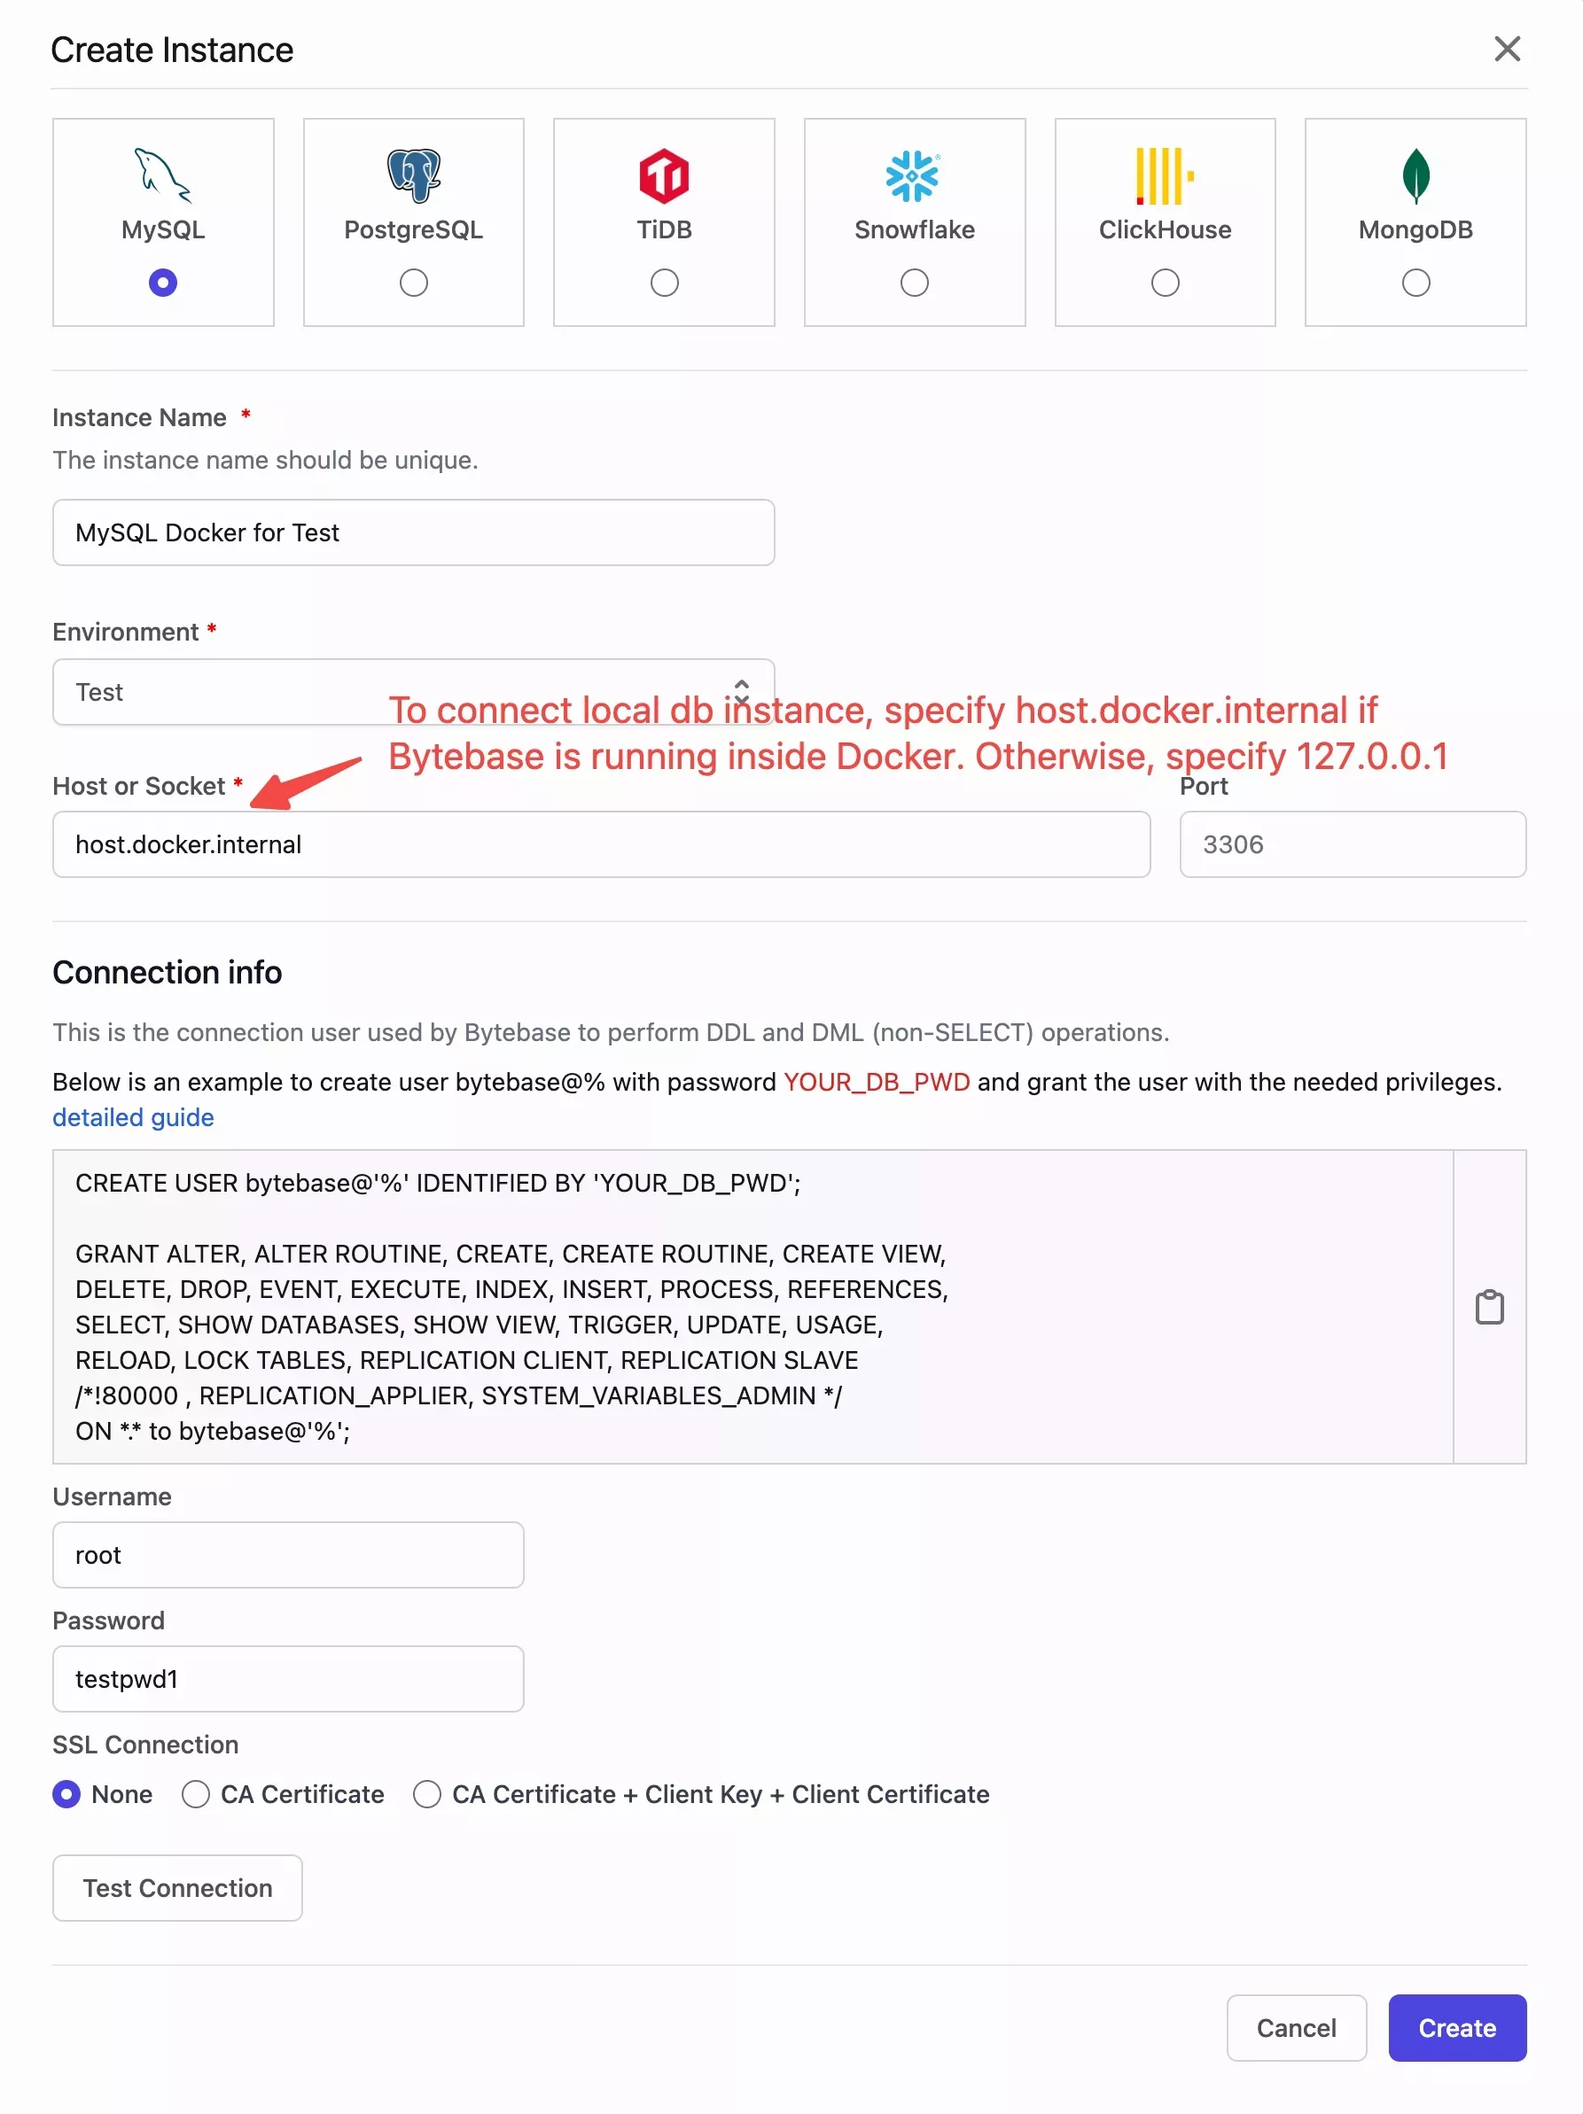
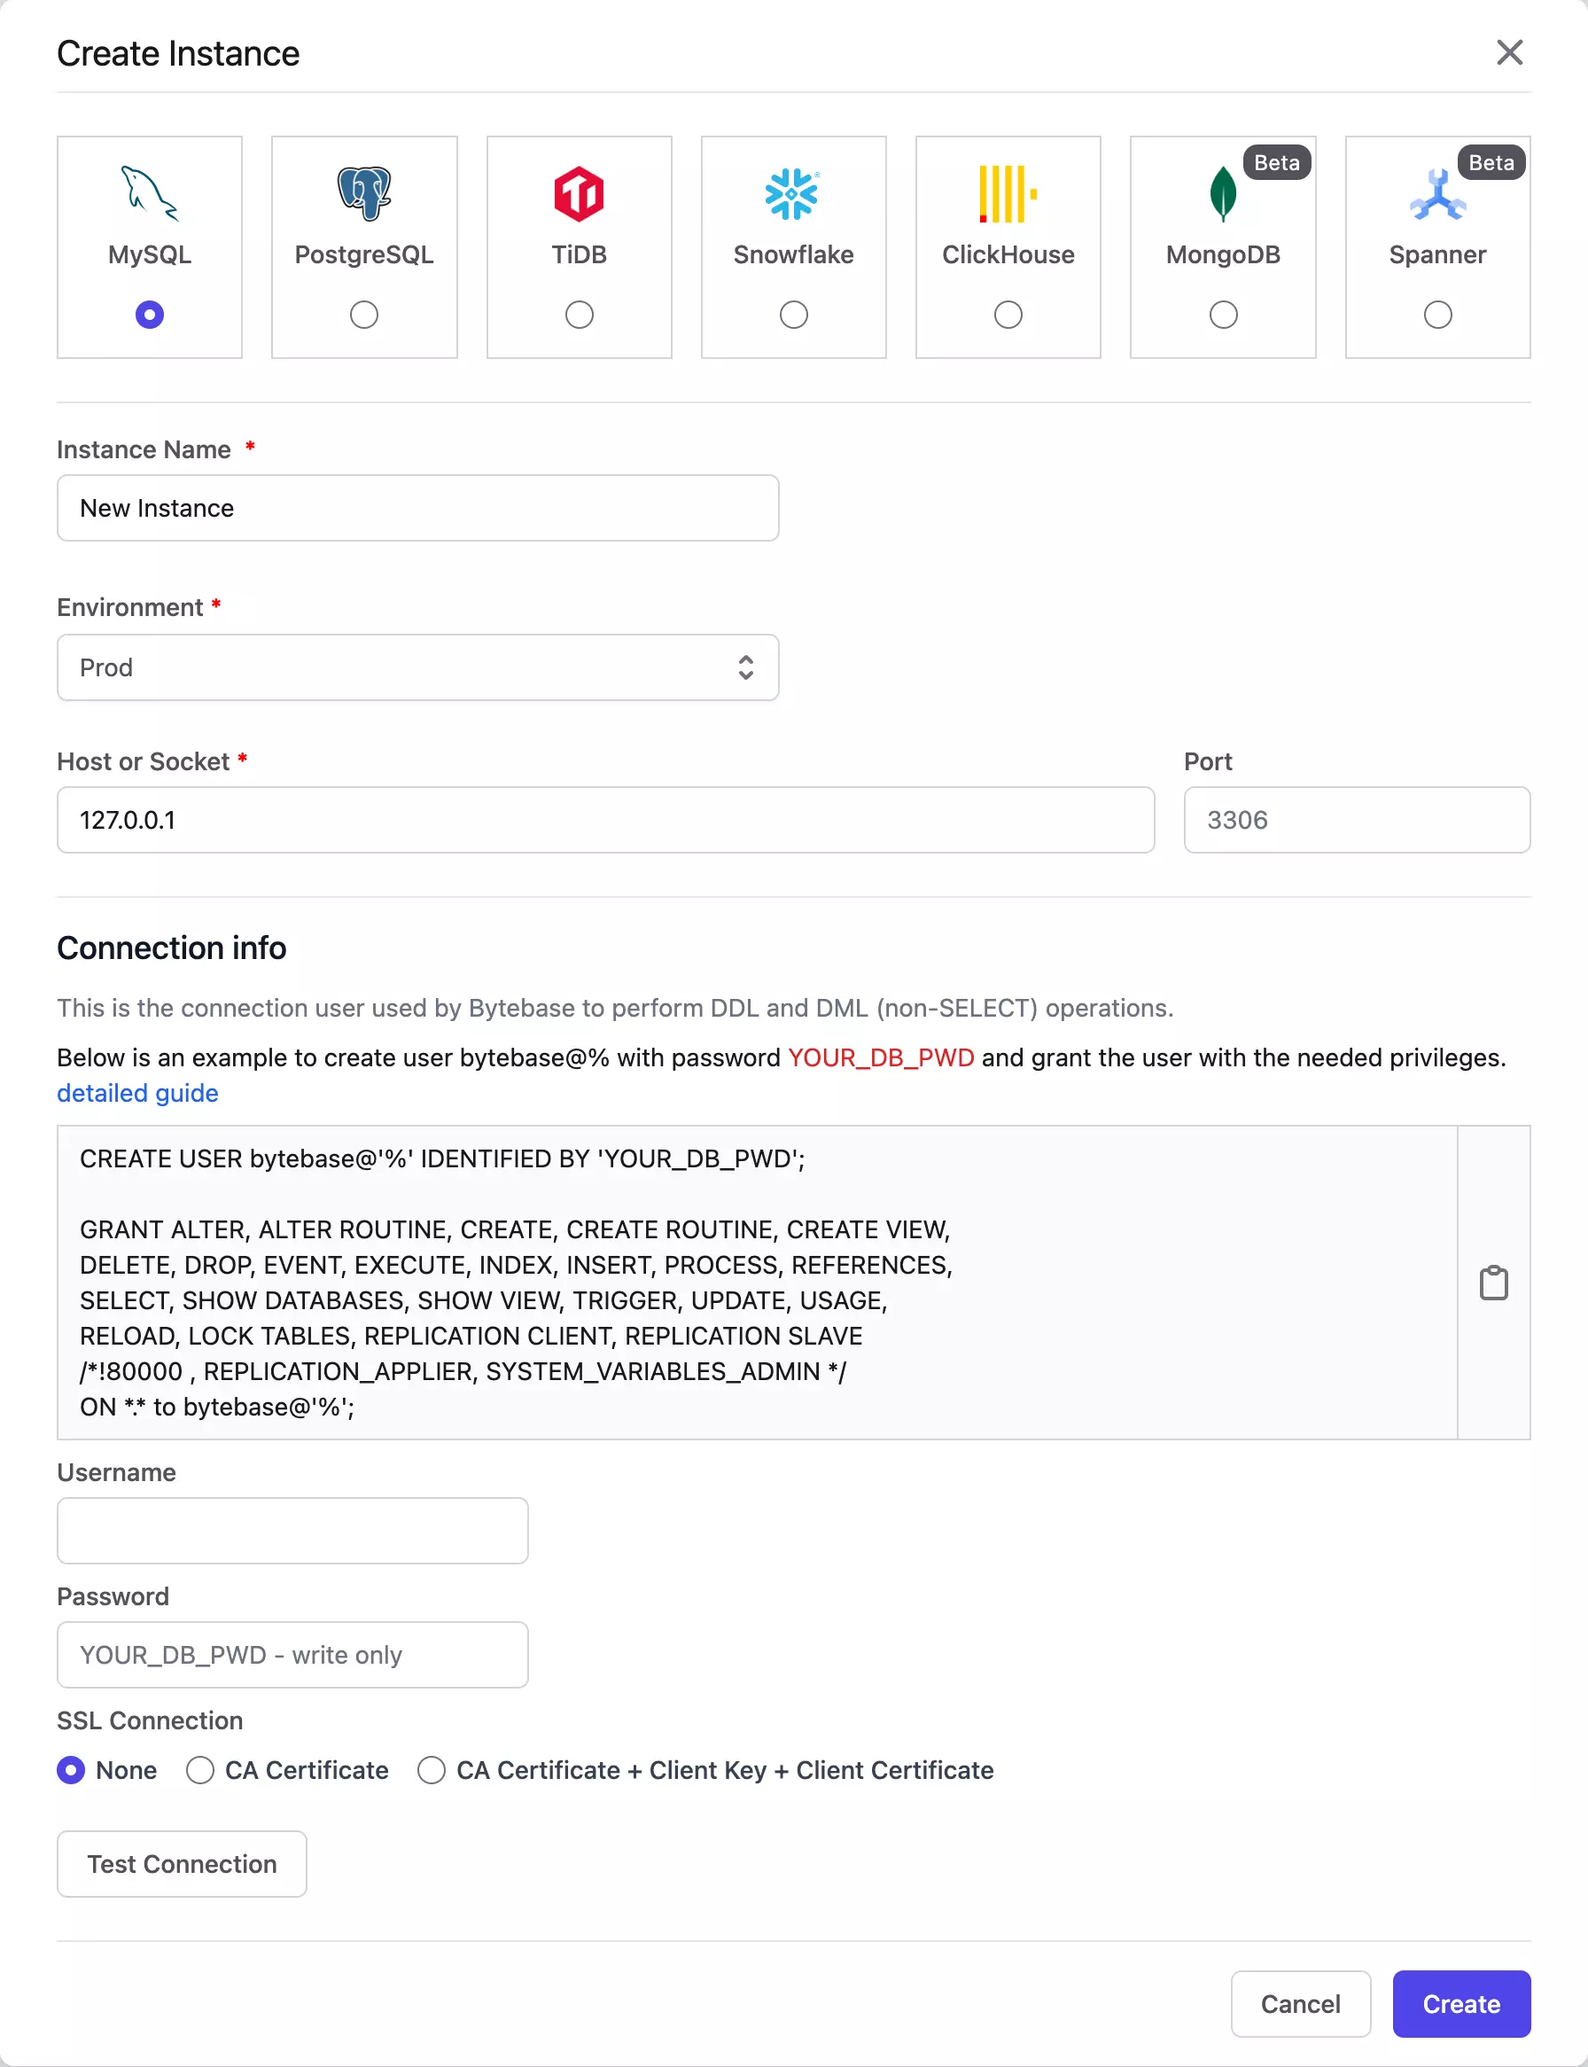
docs: add spanner & spanner how-tos (#741)

diff --git a/content/docs/introduction/supported-databases.md b/content/docs/introduction/supported-databases.md
@@ -11,6 +11,7 @@ Bytebase officially supports the following major versions for each supported dat
 - ClickHouse - 21.0
 - Snowflake
 - MongoDB - 4.0, 5.0, 6.0
+- Spanner (Beta, use at your own risk)
 
 Bytebase usually works fine with older database versions, we just won't support features specific to those older versions. We may add other open source databases in the future.
 
@@ -18,12 +19,12 @@ Bytebase usually works fine with older database versions, we just won't support 
 
 ### Change Management
 
-|                                                                         Feature | MySQL | PostgreSQL | TiDB | ClickHouse | Snowflake | MongoDB |
-| ------------------------------------------------------------------------------: | :---: | :--------: | :--: | :--------: | :-------: | :-----: |
-|            [UI Change Workflow](/docs/change-database/change-workflow/overview) |  ✔   |     ✔     |  ✔  |     ✔     |    ✔     |   ✔    |
-|                        [GitOps Change Workflow](/docs/vcs-integration/overview) |  ✔   |     ✔     |  ✔  |     ✔     |    ✔     |   ✔    |
-|         [Tenant Database Management](/docs/tenant-database-management/overview) |  ✔   |     ✔     |  ✔  |     ✔     |    ✔     |   ✔    |
-|                    [Migration History](/docs/change-database/migration-history) |  ✔   |     ✔     |  ✔  |     ✔     |    ✔     |   ✔    |
+|                                                                         Feature | MySQL | PostgreSQL | TiDB | ClickHouse | Snowflake | MongoDB | Spanner |
+| ------------------------------------------------------------------------------: | :---: | :--------: | :--: | :--------: | :-------: | :-----: | :-: |
+|            [UI Change Workflow](/docs/change-database/change-workflow/overview) |  ✔   |     ✔     |  ✔  |     ✔     |    ✔     |   ✔    | ✔ |
+|                        [GitOps Change Workflow](/docs/vcs-integration/overview) |  ✔   |     ✔     |  ✔  |     ✔     |    ✔     |   ✔    | ✔ |
+|         [Tenant Database Management](/docs/tenant-database-management/overview) |  ✔   |     ✔     |  ✔  |     ✔     |    ✔     |   ✔    | ✔ |
+|                    [Migration History](/docs/change-database/migration-history) |  ✔   |     ✔     |  ✔  |     ✔     |    ✔     |   ✔    | ✔ |
 |                      [SQL Review Rules](/docs/sql-review/review-rules/overview) |  ✔   |     ✔     |  ✔  |            |           |
 |              [Schema Synchronization](/docs/change-database/synchronize-schema) |  ✔   |     ✔     |      |            |           |
 |                            [Schema Editor](/docs/change-database/schema-editor) |  ✔   |            |      |            |           |
@@ -31,34 +32,34 @@ Bytebase usually works fine with older database versions, we just won't support 
 
 ### SQL Editor
 
-|                                                 Feature | MySQL | PostgreSQL | TiDB | ClickHouse | Snowflake | MongoDB |
-| ------------------------------------------------------: | :---: | :--------: | :--: | :--------: | :-------: | :-----: |
-|          [Read-only Mode](/docs/sql-editor/run-queries) |  ✔   |     ✔     |  ✔  |     ✔     |    ✔     |         |
-|               [Admin Mode](/docs/sql-editor/admin-mode) |  ✔   |     ✔     |  ✔  |     ✔     |    ✔     |   ✔    |
-| [Sheet Management](/docs/sql-editor/manage-sql-scripts) |  ✔   |     ✔     |  ✔  |     ✔     |    ✔     |   ✔    |
+|                                                 Feature | MySQL | PostgreSQL | TiDB | ClickHouse | Snowflake | MongoDB | Spanner |
+| ------------------------------------------------------: | :---: | :--------: | :--: | :--------: | :-------: | :-----: | :-: |
+|          [Read-only Mode](/docs/sql-editor/run-queries) |  ✔   |     ✔     |  ✔  |     ✔     |    ✔     |         | ✔ |
+|               [Admin Mode](/docs/sql-editor/admin-mode) |  ✔   |     ✔     |  ✔  |     ✔     |    ✔     |   ✔    | ✔ |
+| [Sheet Management](/docs/sql-editor/manage-sql-scripts) |  ✔   |     ✔     |  ✔  |     ✔     |    ✔     |   ✔    | ✔ |
 
 ### Security
 
-|                                                                 Feature | MySQL | PostgreSQL | TiDB | ClickHouse | Snowflake | MongoDB |
-| ----------------------------------------------------------------------: | :---: | :--------: | :--: | :--------: | :-------: | :-----: |
-|                            [RBAC](/docs/concepts/roles-and-permissions) |  ✔   |     ✔     |  ✔  |     ✔     |    ✔     |   ✔    |
-| [Database Access Control](/docs/administration/database-access-control) |  ✔   |     ✔     |  ✔  |     ✔     |    ✔     |         |
-|                             [Audit Log](/docs/administration/audit-log) |  ✔   |     ✔     |  ✔  |     ✔     |    ✔     |   ✔    |
+|                                                                 Feature | MySQL | PostgreSQL | TiDB | ClickHouse | Snowflake | MongoDB | Spanner |
+| ----------------------------------------------------------------------: | :---: | :--------: | :--: | :--------: | :-------: | :-----: | :-: |
+|                            [RBAC](/docs/concepts/roles-and-permissions) |  ✔   |     ✔     |  ✔  |     ✔     |    ✔     |   ✔    | ✔ |
+| [Database Access Control](/docs/administration/database-access-control) |  ✔   |     ✔     |  ✔  |     ✔     |    ✔     |   ✔    | ✔ |
+|                             [Audit Log](/docs/administration/audit-log) |  ✔   |     ✔     |  ✔  |     ✔     |    ✔     |   ✔    | ✔ |
 |               [Data Anonymization](/docs/administration/anonymize-data) |  ✔   |            |      |            |           |         |
 
 ### Disaster Recovery
 
-|                                                                                   Feature | MySQL | PostgreSQL | TiDB | ClickHouse | Snowflake | MongoDB |
-| ----------------------------------------------------------------------------------------: | :---: | :--------: | :--: | :--------: | :-------: | :-----: |
+|                                                                                   Feature | MySQL | PostgreSQL | TiDB | ClickHouse | Snowflake | MongoDB | Spanner |
+| ----------------------------------------------------------------------------------------: | :---: | :--------: | :--: | :--------: | :-------: | :-----: | :-: |
 |      [Local Backup and Restore](/docs/disaster-recovery/backup-restore-database/overview) |  ✔   |     ✔     |  ✔  |     ✔     |    ✔     |         |
 |              [Cloud Backup](/docs/disaster-recovery/backup-restore-database/cloud-backup) |  ✔   |     ✔     |  ✔  |     ✔     |    ✔     |         |
 | [Point-in-time Recovery (PITR)](/docs/disaster-recovery/point-in-time-recovery-for-mysql) |  ✔   |            |      |            |           |         |
 
 ### Anomaly Detection
 
-|                                                                                   Feature | MySQL | PostgreSQL | TiDB | ClickHouse | Snowflake | MongoDB |
-| ----------------------------------------------------------------------------------------: | :---: | :--------: | :--: | :--------: | :-------: | :-----: |
-|                                                               Database Connection Failure |  ✔   |     ✔     |  ✔  |     ✔     |    ✔     |   ✔    |
-|                                [Drift Detection](/docs/anomaly-detection/drift-detection) |  ✔   |     ✔     |  ✔  |     ✔     |    ✔     |         |
+|                                                                                   Feature | MySQL | PostgreSQL | TiDB | ClickHouse | Snowflake | MongoDB | Spanner |
+| ----------------------------------------------------------------------------------------: | :---: | :--------: | :--: | :--------: | :-------: | :-----: | :-: |
+|                                                               Database Connection Failure |  ✔   |     ✔     |  ✔  |     ✔     |    ✔     |   ✔    | ✔ |
+|                                [Drift Detection](/docs/anomaly-detection/drift-detection) |  ✔   |     ✔     |  ✔  |     ✔     |    ✔     |         | ✔ |
 | [Backup Policy Violation](/docs/administration/environment-policy/backup-schedule-policy) |  ✔   |     ✔     |  ✔  |     ✔     |    ✔     |         |
 |                  [Backup Missing](/docs/disaster-recovery/backup-restore-database/backup) |  ✔   |     ✔     |  ✔  |     ✔     |    ✔     |         |

diff --git a/content/docs/get-started/configure-workspace/add-an-instance.md b/content/docs/get-started/configure-workspace/add-an-instance.md
@@ -4,7 +4,7 @@ title: Add an Instance
 
 **Database Instance** or simply **Instance** models after a single database instance which is usually accessed via a host:port address. A typical database instance could be your on-premises MySQL instance, an AWS RDS instance etc. Each **Database Instance** belongs to an **Environment**.
 
-Currently Bytebase supports **MySQL**, **PostgreSQL**, **TiDB**, **Snowflake** and **ClickHouse** instances.
+Currently Bytebase supports **MySQL**, **PostgreSQL**, **TiDB**, **Snowflake**, **ClickHouse**, **MongoDB** and **Spanner** instances.
 
 This document describes how to add an instance in order to synchronize databases.
 
@@ -17,6 +17,7 @@ This document describes how to add an instance in order to synchronize databases
 
 1. Click **Instances** on the top bar.
 1. Click **Add Instance**.
+1. Select an **Instance Type** on the top.
 1. Enter **Instance name**, select **Environment**, enter **Host or Socket** and **Port**.
 1. Enter connection info: **Username** and **Password**, and click **Test Connection**.
 1. (Optional) Enter SSL connection info:
@@ -24,13 +25,14 @@ This document describes how to add an instance in order to synchronize databases
    1. Choose **CA Certificate** to use SSL connection with CA certificate only.
    1. Choose **CA Certificate + Client Key + Client Certificate** to use a full SSL connection.
 
-![create-an-instance](/docs/get-started/configure-workspace/add-an-instance/add-an-instance.webp)
+![create-an-instance](/static/docs/get-started/configure-workspace/add-an-instance/add-an-instance.webp)
 
 <hint-block type="info">
 
-1. Environment can not be changed once the Instance has been created.
+1. Environment cannot be changed once the instance has been created.
 1. The screenshot assumes you run Bytebase inside Docker and try to connect to a database instance on the same host. Thus it uses `host.docker.internal`. If Bytebase is not running inside Docker, you should supply the normal `127.0.0.1` to connect the instance on the same host [(detailed explanation)](https://stackoverflow.com/a/24326540/235983).
 1. The SSL connection configuration only supports PostgreSQL, MySQL, TiDB and ClickHouse for now. You can also configure the SSL connection on the instance details page.
+1. On how to connect to Spanner databases, see [How to Find Project ID and Instance ID](/docs/how-to/spanner/how-to-find-project-id-and-instance-id) and [How to Create a Service Account for Bytebase](/docs/how-to/spanner/how-to-create-a-service-account-for-bytebase)
 
 </hint-block>
 

diff --git a/content/docs/how-to/spanner/how-to-create-a-service-account-for-bytebase.md b/content/docs/how-to/spanner/how-to-create-a-service-account-for-bytebase.md
@@ -1,0 +1,17 @@
+---
+title: How to Create a Service Account for Bytebase
+description: Step-by-Step guide about how to create a Google Cloud service account used by Bytebase for Spanner
+---
+
+1. Go to [Google Cloud console](https://console.cloud.google.com/).
+1. Click **APIs & Services** and then **Credentials**. You might have to click **Menu** on the top left first.
+1. Click **Create Credentials** and then **Service account**.
+1. For **Service account name**, enter a name for the service account.
+1. Click **Create and Continue**.
+1. For **Select a role**, select **Cloud Spanner Database Admin** for the service account.
+1. Click **Done**.
+1. Click the created service account.
+1. At the top, click **Keys** and then **Add Key** and then **Create new key**. Make sure the key type is set to **JSON** and click **Create**.
+1. You'll get a message that the service account's private key JSON file was downloaded to your computer. Make a note of the file name and where your browser saves it. You'll need it later.
+
+When [adding an instance](/docs/get-started/configure-workspace/add-an-instance/#add-an-instance) in Bytebase, the `Credentials` input should be the content of the JSON file.

diff --git a/content/docs/how-to/_layout.md b/content/docs/how-to/_layout.md
@@ -1,6 +1,6 @@
 ---
 # expand_section_list is the list of default expanded sections.
-expand_section_list: ["Workflow", "Integrations", "ClickHouse"]
+expand_section_list: ["Workflow", "Integrations", "ClickHouse", "Spanner"]
 ---
 
 ## SQL Review Guide
@@ -32,3 +32,9 @@ expand_section_list: ["Workflow", "Integrations", "ClickHouse"]
 ### [How to List Tables from a Database](/how-to/clickhouse/how-to-list-tables-from-a-database-clickhouse)
 
 ### [How to Rename a Table](/how-to/clickhouse/how-to-rename-a-table-clickhouse)
+
+## Spanner
+
+### [How to Find Project ID and Instance ID](/how-to/spanner/how-to-find-project-id-and-instance-id)
+
+### [How to Create a Service Account for Bytebase](/how-to/spanner/how-to-create-a-service-account-for-bytebase)

diff --git a/content/docs/how-to/spanner/how-to-find-project-id-and-instance-id.md b/content/docs/how-to/spanner/how-to-find-project-id-and-instance-id.md
@@ -1,0 +1,12 @@
+---
+title: How to Find Project ID and Instance ID
+description: Instructions on how to find project ID and instance ID of a Spanner instance
+---
+
+![Spanner database detail page](/static/docs/how-to/spanner/database.webp)
+
+From the Spanner database detail page, you can get the project ID and the instance ID from the URL.
+
+For example, the project ID and instance ID are `spanner-test-3717002` and `spanner-bb1` respectively for the above database.
+
+When [adding an instance](/docs/get-started/configure-workspace/add-an-instance/#add-an-instance) in Bytebase, the `Project ID and instance ID` input should be `projects/spanner-test/3717002/instances/spanner-bb1`.
